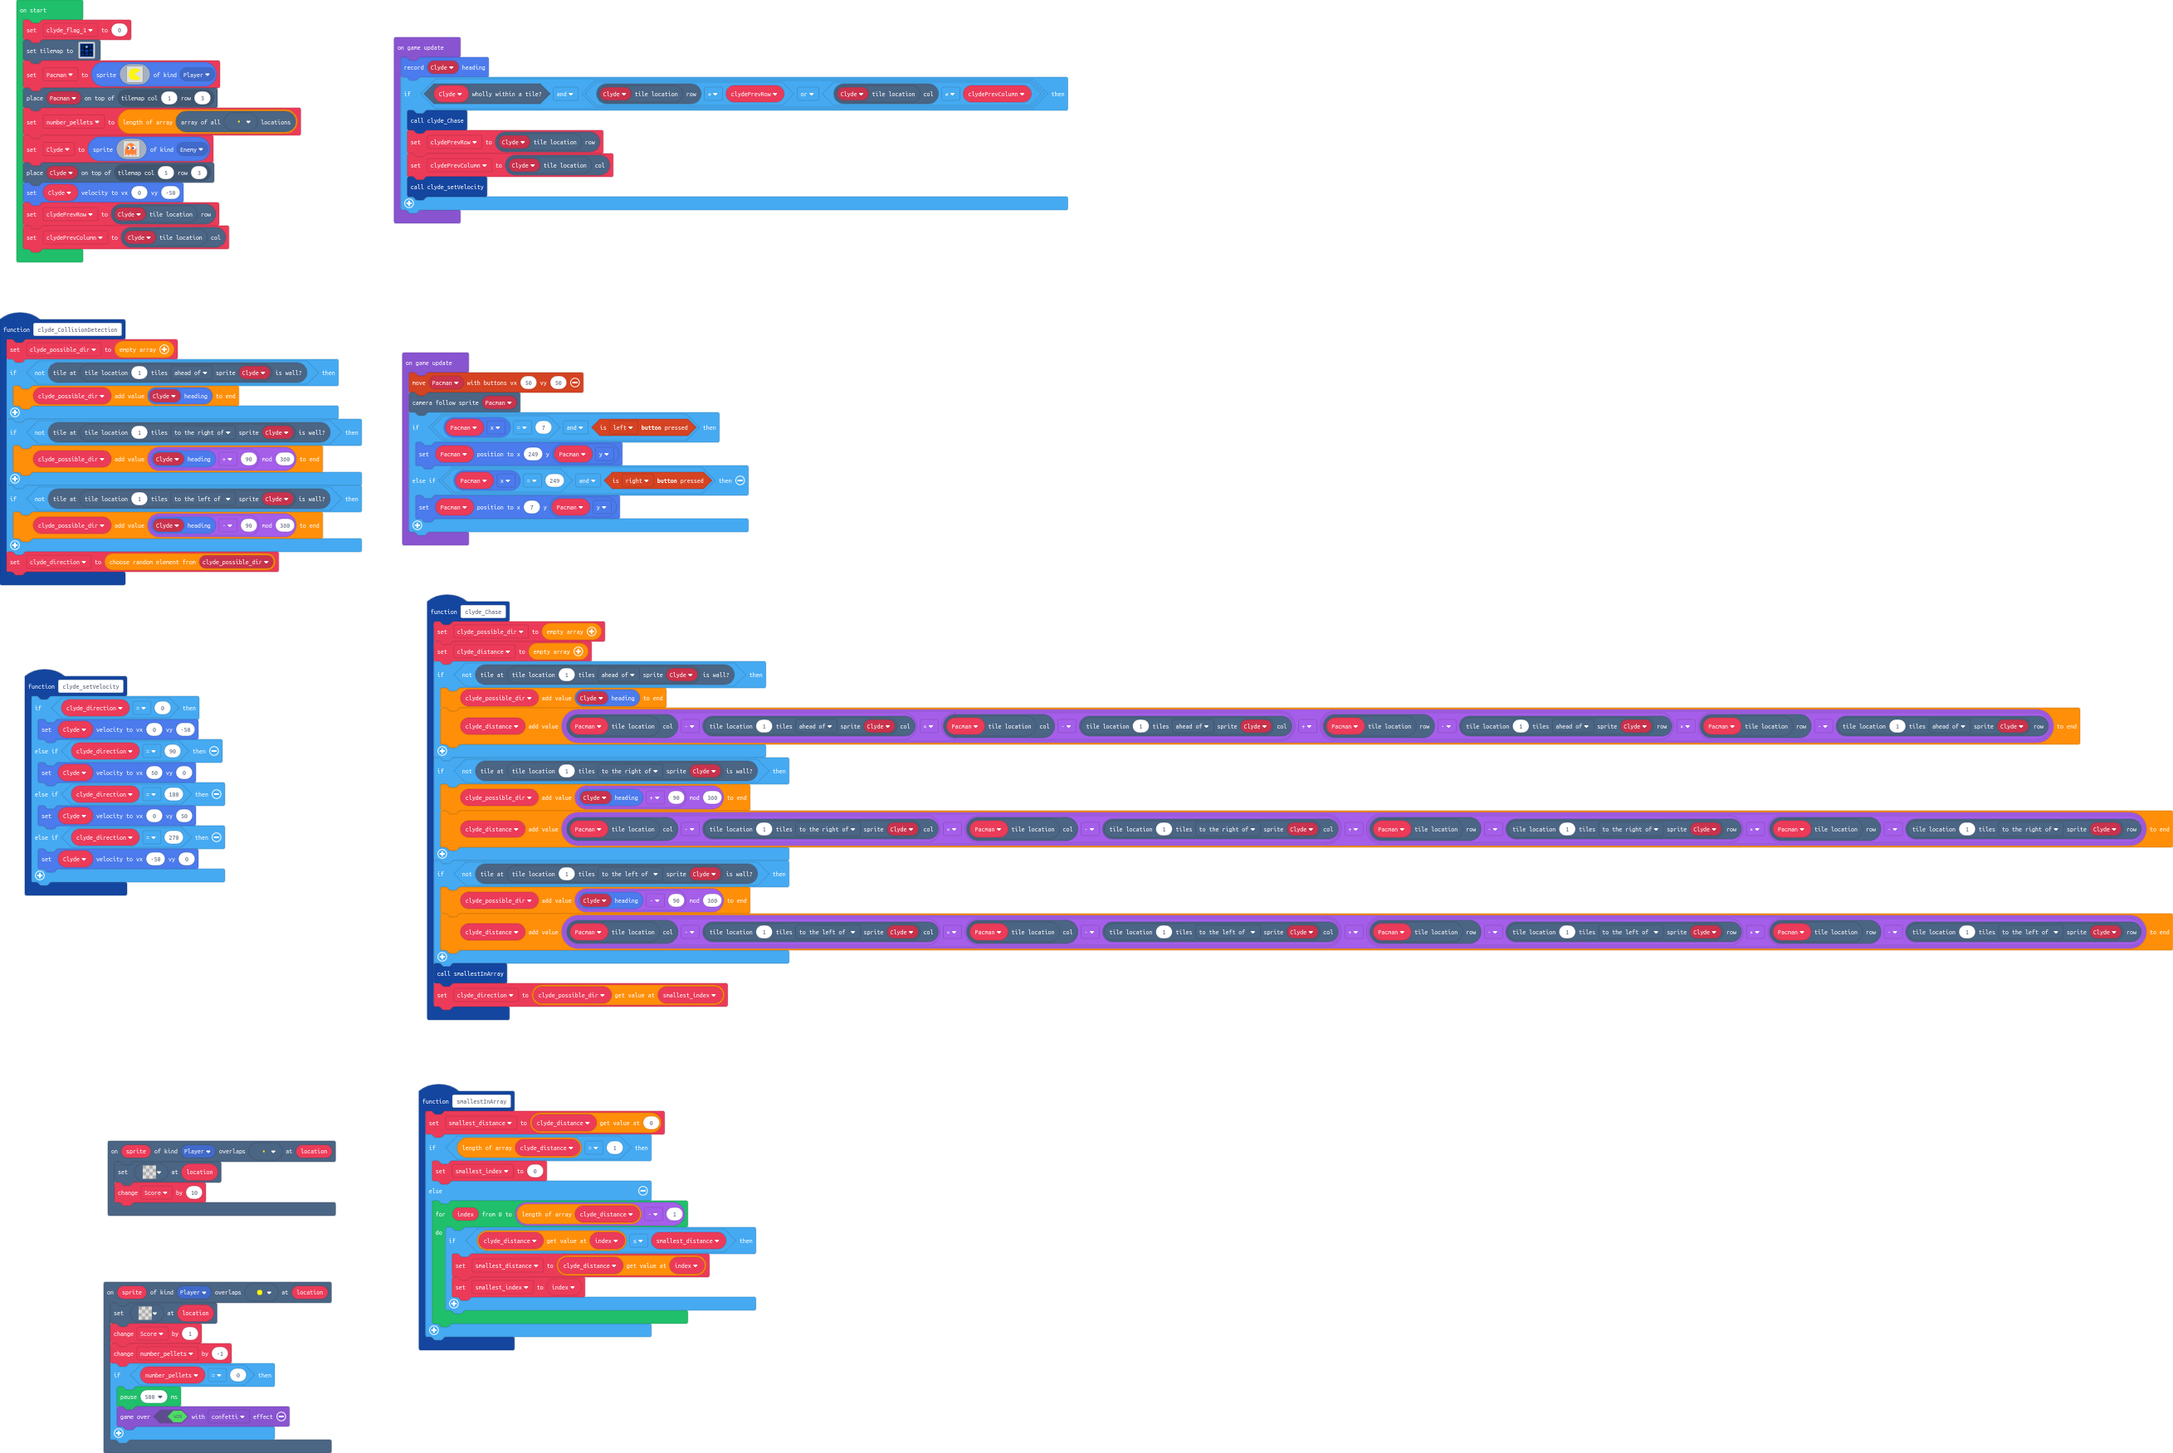
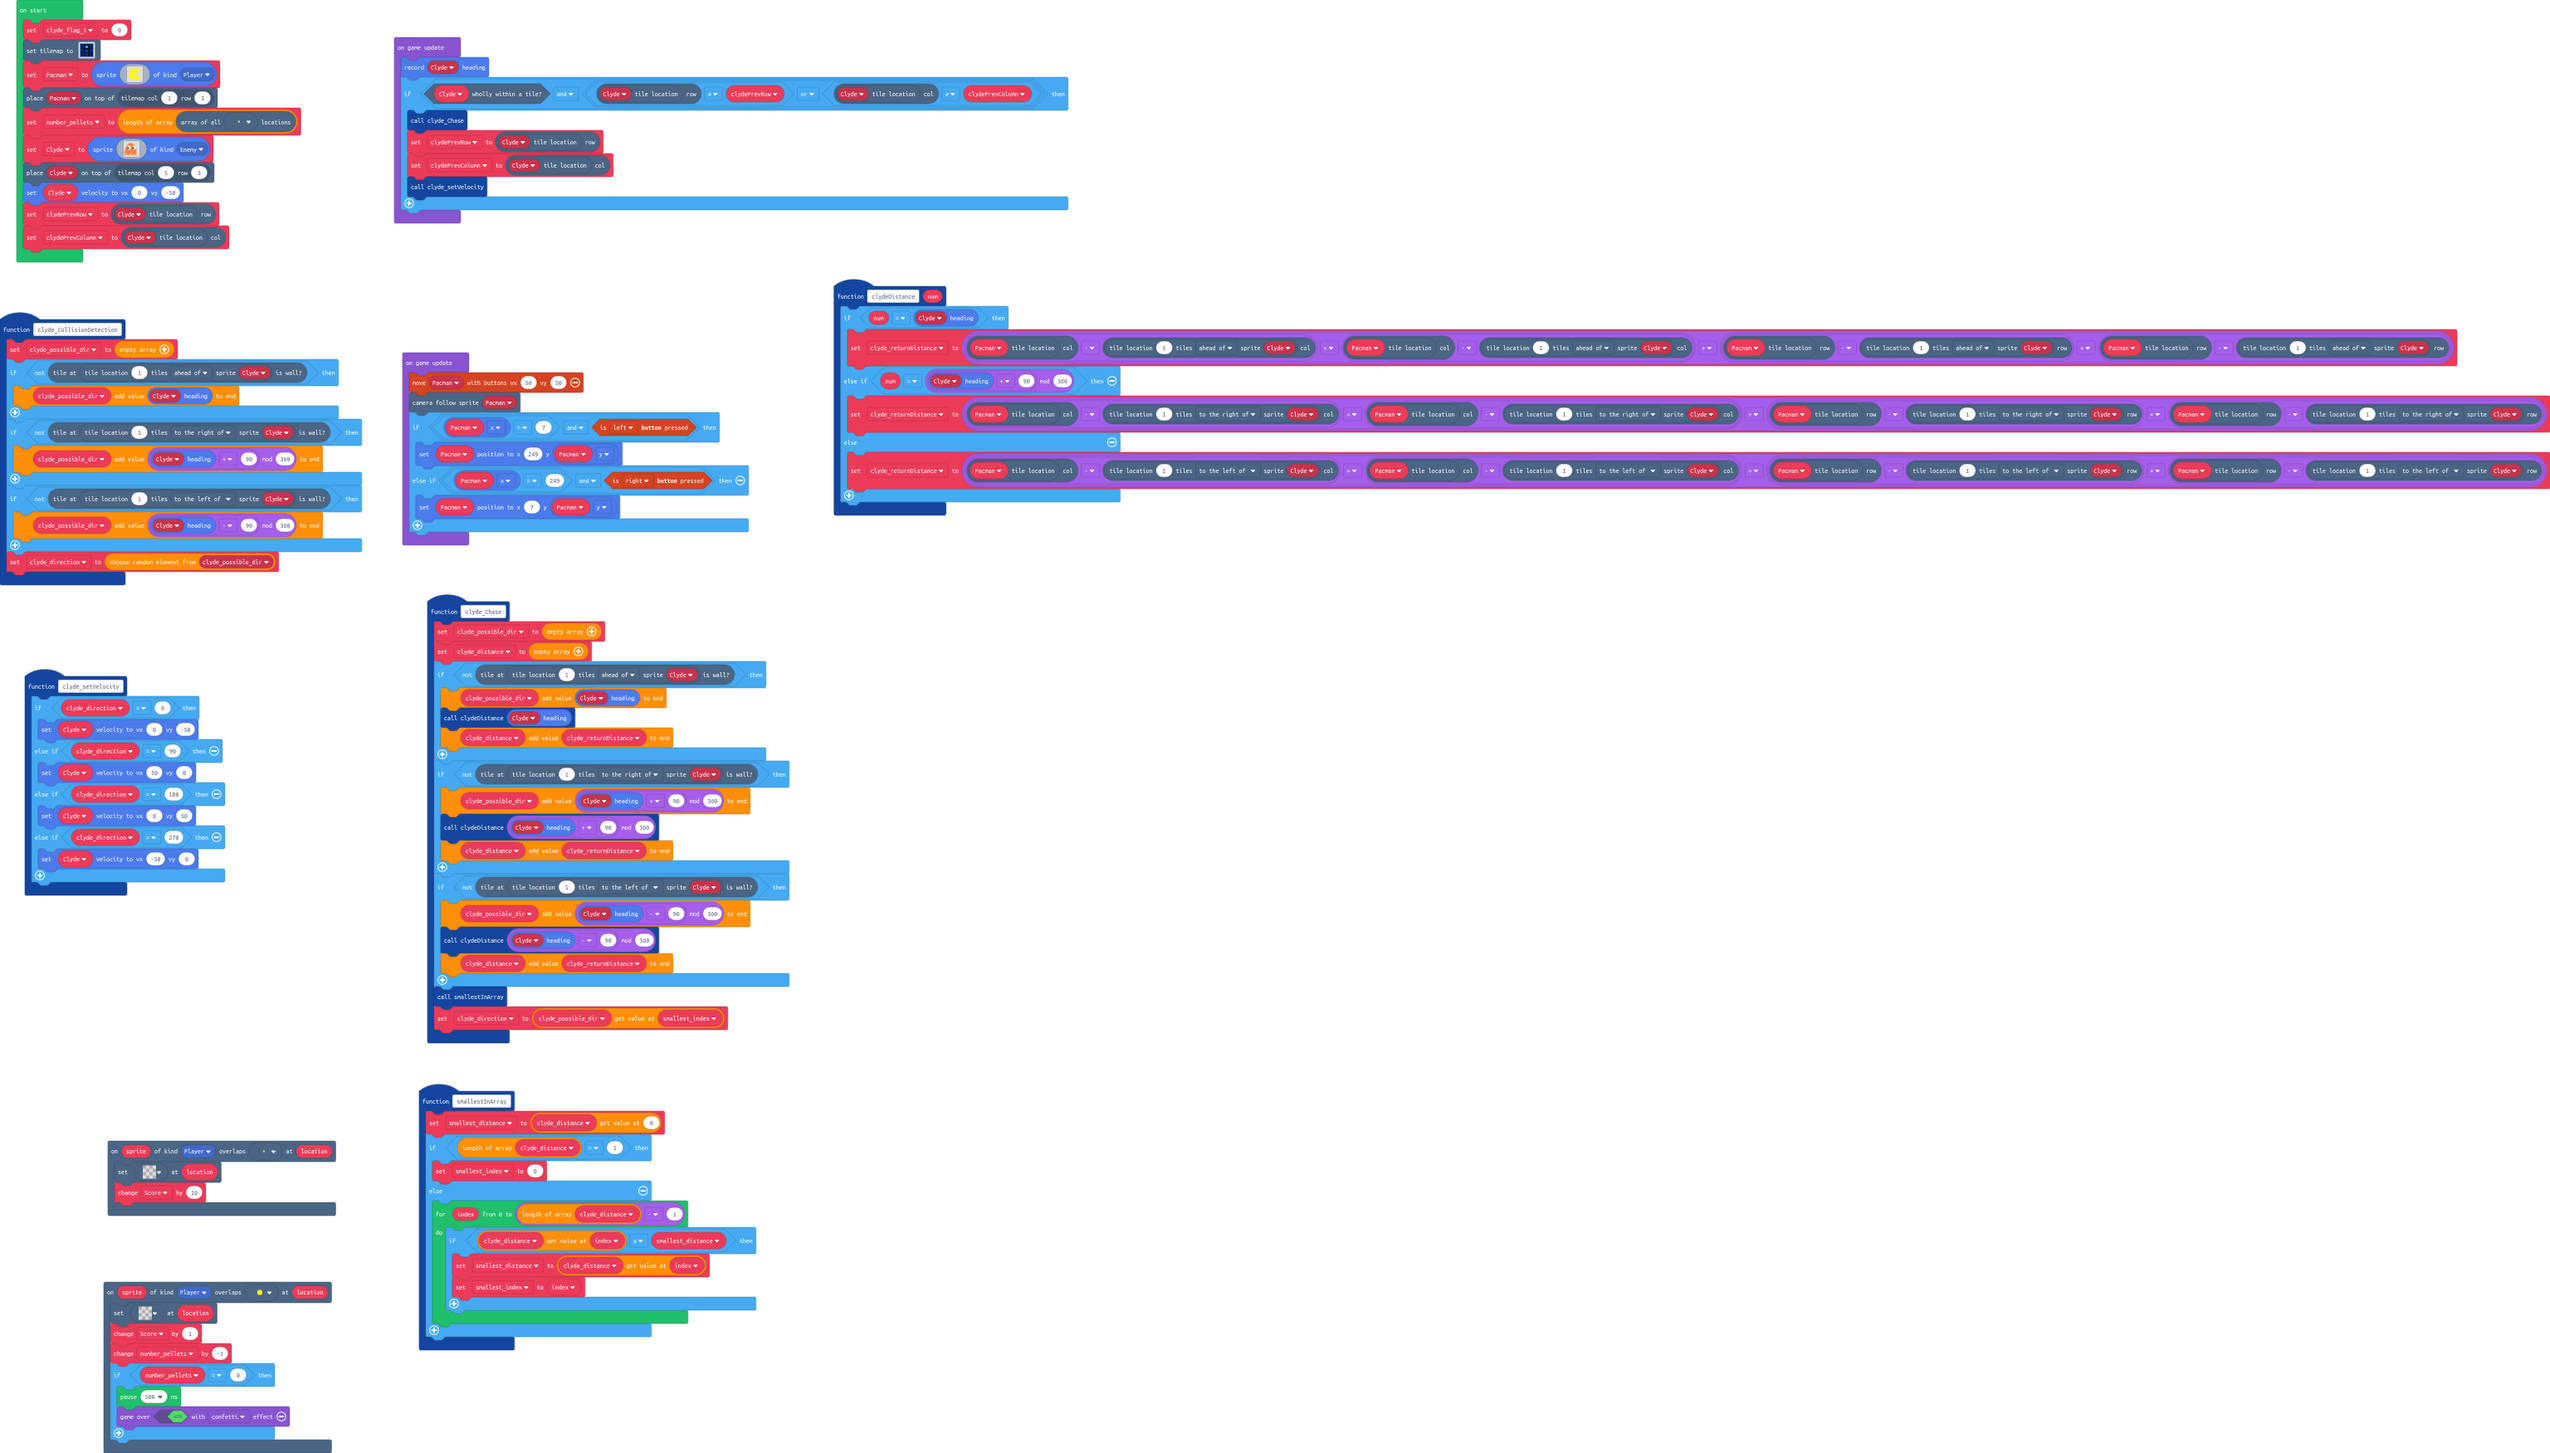
Added new function for distance calculation

diff --git a/main.ts b/main.ts
@@ -103,18 +103,30 @@ function clyde_Chase () {
     clyde_distance = []
     if (!(scene.isTileAWallAt(scene.getCoordinateNTilesAwayFromTile(1, TravelDirection.Ahead, Clyde)))) {
         clyde_possible_dir.push(sprites.heading(Clyde))
-        clyde_distance.push((scene.getTileColCoordinate(scene.getTileLocationOfSprite(Pacman)) - scene.getTileColCoordinate(scene.getCoordinateNTilesAwayFromTile(1, TravelDirection.Ahead, Clyde))) * (scene.getTileColCoordinate(scene.getTileLocationOfSprite(Pacman)) - scene.getTileColCoordinate(scene.getCoordinateNTilesAwayFromTile(1, TravelDirection.Ahead, Clyde))) + (scene.getTileRowCoordinate(scene.getTileLocationOfSprite(Pacman)) - scene.getTileRowCoordinate(scene.getCoordinateNTilesAwayFromTile(1, TravelDirection.Ahead, Clyde))) * (scene.getTileRowCoordinate(scene.getTileLocationOfSprite(Pacman)) - scene.getTileRowCoordinate(scene.getCoordinateNTilesAwayFromTile(1, TravelDirection.Ahead, Clyde))))
+        clydeDistance(sprites.heading(Clyde))
+        clyde_distance.push(clyde_returnDistance)
     }
     if (!(scene.isTileAWallAt(scene.getCoordinateNTilesAwayFromTile(1, TravelDirection.Right, Clyde)))) {
         clyde_possible_dir.push(Math.mod(sprites.heading(Clyde) + 90, 360))
-        clyde_distance.push((scene.getTileColCoordinate(scene.getTileLocationOfSprite(Pacman)) - scene.getTileColCoordinate(scene.getCoordinateNTilesAwayFromTile(1, TravelDirection.Right, Clyde))) * (scene.getTileColCoordinate(scene.getTileLocationOfSprite(Pacman)) - scene.getTileColCoordinate(scene.getCoordinateNTilesAwayFromTile(1, TravelDirection.Right, Clyde))) + (scene.getTileRowCoordinate(scene.getTileLocationOfSprite(Pacman)) - scene.getTileRowCoordinate(scene.getCoordinateNTilesAwayFromTile(1, TravelDirection.Right, Clyde))) * (scene.getTileRowCoordinate(scene.getTileLocationOfSprite(Pacman)) - scene.getTileRowCoordinate(scene.getCoordinateNTilesAwayFromTile(1, TravelDirection.Right, Clyde))))
+        clydeDistance(Math.mod(sprites.heading(Clyde) + 90, 360))
+        clyde_distance.push(clyde_returnDistance)
     }
     if (!(scene.isTileAWallAt(scene.getCoordinateNTilesAwayFromTile(1, TravelDirection.Left, Clyde)))) {
         clyde_possible_dir.push(Math.mod(sprites.heading(Clyde) - 90, 360))
-        clyde_distance.push((scene.getTileColCoordinate(scene.getTileLocationOfSprite(Pacman)) - scene.getTileColCoordinate(scene.getCoordinateNTilesAwayFromTile(1, TravelDirection.Left, Clyde))) * (scene.getTileColCoordinate(scene.getTileLocationOfSprite(Pacman)) - scene.getTileColCoordinate(scene.getCoordinateNTilesAwayFromTile(1, TravelDirection.Left, Clyde))) + (scene.getTileRowCoordinate(scene.getTileLocationOfSprite(Pacman)) - scene.getTileRowCoordinate(scene.getCoordinateNTilesAwayFromTile(1, TravelDirection.Left, Clyde))) * (scene.getTileRowCoordinate(scene.getTileLocationOfSprite(Pacman)) - scene.getTileRowCoordinate(scene.getCoordinateNTilesAwayFromTile(1, TravelDirection.Left, Clyde))))
+        clydeDistance(Math.mod(sprites.heading(Clyde) - 90, 360))
+        clyde_distance.push(clyde_returnDistance)
     }
     smallestInArray()
     clyde_direction = clyde_possible_dir[smallest_index]
+}
+function clydeDistance (num: number) {
+    if (num == sprites.heading(Clyde)) {
+        clyde_returnDistance = (scene.getTileColCoordinate(scene.getTileLocationOfSprite(Pacman)) - scene.getTileColCoordinate(scene.getCoordinateNTilesAwayFromTile(1, TravelDirection.Ahead, Clyde))) * (scene.getTileColCoordinate(scene.getTileLocationOfSprite(Pacman)) - scene.getTileColCoordinate(scene.getCoordinateNTilesAwayFromTile(1, TravelDirection.Ahead, Clyde))) + (scene.getTileRowCoordinate(scene.getTileLocationOfSprite(Pacman)) - scene.getTileRowCoordinate(scene.getCoordinateNTilesAwayFromTile(1, TravelDirection.Ahead, Clyde))) * (scene.getTileRowCoordinate(scene.getTileLocationOfSprite(Pacman)) - scene.getTileRowCoordinate(scene.getCoordinateNTilesAwayFromTile(1, TravelDirection.Ahead, Clyde)))
+    } else if (num == Math.mod(sprites.heading(Clyde) + 90, 360)) {
+        clyde_returnDistance = (scene.getTileColCoordinate(scene.getTileLocationOfSprite(Pacman)) - scene.getTileColCoordinate(scene.getCoordinateNTilesAwayFromTile(1, TravelDirection.Right, Clyde))) * (scene.getTileColCoordinate(scene.getTileLocationOfSprite(Pacman)) - scene.getTileColCoordinate(scene.getCoordinateNTilesAwayFromTile(1, TravelDirection.Right, Clyde))) + (scene.getTileRowCoordinate(scene.getTileLocationOfSprite(Pacman)) - scene.getTileRowCoordinate(scene.getCoordinateNTilesAwayFromTile(1, TravelDirection.Right, Clyde))) * (scene.getTileRowCoordinate(scene.getTileLocationOfSprite(Pacman)) - scene.getTileRowCoordinate(scene.getCoordinateNTilesAwayFromTile(1, TravelDirection.Right, Clyde)))
+    } else {
+        clyde_returnDistance = (scene.getTileColCoordinate(scene.getTileLocationOfSprite(Pacman)) - scene.getTileColCoordinate(scene.getCoordinateNTilesAwayFromTile(1, TravelDirection.Left, Clyde))) * (scene.getTileColCoordinate(scene.getTileLocationOfSprite(Pacman)) - scene.getTileColCoordinate(scene.getCoordinateNTilesAwayFromTile(1, TravelDirection.Left, Clyde))) + (scene.getTileRowCoordinate(scene.getTileLocationOfSprite(Pacman)) - scene.getTileRowCoordinate(scene.getCoordinateNTilesAwayFromTile(1, TravelDirection.Left, Clyde))) * (scene.getTileRowCoordinate(scene.getTileLocationOfSprite(Pacman)) - scene.getTileRowCoordinate(scene.getCoordinateNTilesAwayFromTile(1, TravelDirection.Left, Clyde)))
+    }
 }
 scene.onOverlapTile(SpriteKind.Player, myTiles.tile3, function (sprite, location) {
     tiles.setTileAt(location, myTiles.tile0)
@@ -170,6 +182,7 @@ let smallest_distance = 0
 let Score = 0
 let smallest_index = 0
 let clyde_direction = 0
+let clyde_returnDistance = 0
 let clyde_distance: number[] = []
 let clyde_possible_dir: number[] = []
 let Clyde: Sprite = null
